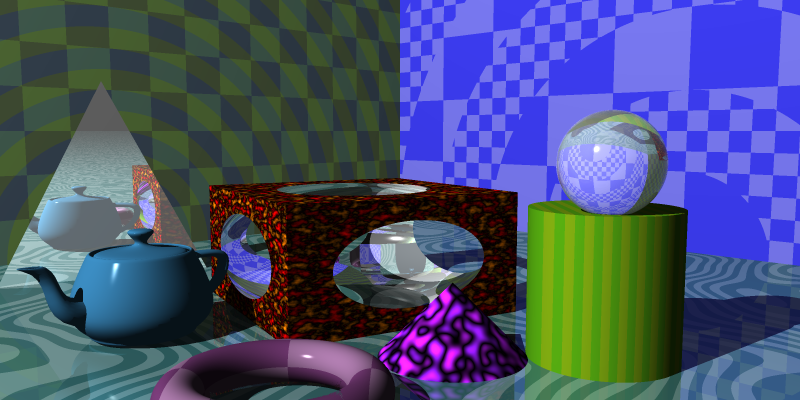
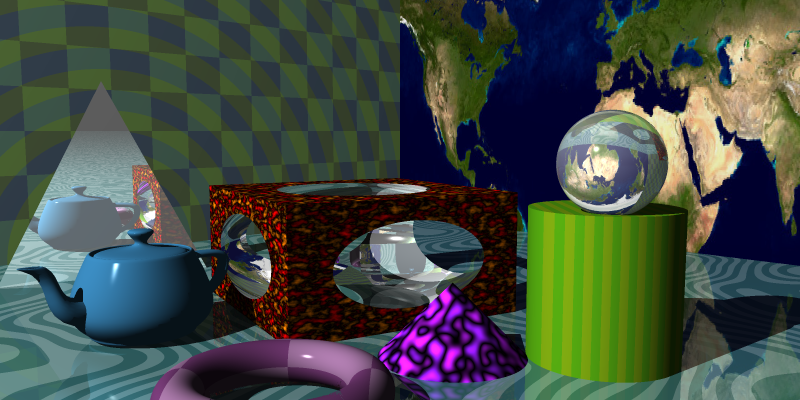
texture wip, sphere and plane done

diff --git a/src/raytracer/material/pattern.rs b/src/raytracer/material/pattern.rs
@@ -1,6 +1,7 @@
 use crate::color::Color;
 use crate::matrix::Matrix;
 use crate::raytracer::material::noise;
+use crate::raytracer::material::texture::Texture;
 use crate::tuple::Tuple;
 
 /// Represents the type of pattern to be applied to a surface in a ray tracing context.
@@ -31,7 +32,8 @@ pub enum PatternType {
     Checker(Box<Pattern>, Box<Pattern>),
     Blend(Box<Pattern>, Box<Pattern>, f64),
     Perturbed(Box<Pattern>, f64, usize, f64),
-    Noise(Box<Pattern>, Box<Pattern>, f64, usize, f64)
+    Noise(Box<Pattern>, Box<Pattern>, f64, usize, f64),
+    Texture(Texture)
 }
 
 /// Represents a pattern with a specific type and transformation.
@@ -116,6 +118,13 @@ impl Pattern {
         }
     }
 
+    pub fn texture(file_name: &str, transform: Matrix) -> Pattern {
+        Pattern {
+            pattern_type: PatternType::Texture(Texture::new(file_name)),
+            transform,
+        }
+    }
+
     /// Calculates the color of the pattern at a given point on an object.
     ///
     /// This method computes the color of the pattern at a specific point on an object, taking into
@@ -133,7 +142,7 @@ impl Pattern {
     /// # Returns
     ///
     /// Returns a `Color` representing the color of the pattern at the given point on the object.
-    pub fn pattern_at(&self, object_point: &Tuple) -> Color {
+    pub fn pattern_at(&self, object_point: &Tuple, shape: usize) -> Color {
         let pattern_point = self.transform.inverse().multiply_tuple(object_point);
         match &self.pattern_type {
             PatternType::Test => {
@@ -144,35 +153,35 @@ impl Pattern {
             },
             PatternType::Stripe(a, b) => {
                 if (pattern_point.x.floor() as i32) % 2 == 0 {
-                    a.pattern_at(&pattern_point)
+                    a.pattern_at(&pattern_point, shape)
                 } else {
-                    b.pattern_at(&pattern_point)
+                    b.pattern_at(&pattern_point, shape)
                 }
             },
             PatternType::Gradient(a, b) => {
-                let a = a.pattern_at(&pattern_point);
-                let b = b.pattern_at(&pattern_point);
+                let a = a.pattern_at(&pattern_point, shape);
+                let b = b.pattern_at(&pattern_point, shape);
                 let distance = b.subtract(&a);
                 let fraction = pattern_point.x - pattern_point.x.floor();
                 a.add(&distance.multiply(fraction))
             },
             PatternType::Ring(a, b) => {
                 if (pattern_point.x.powi(2) + pattern_point.z.powi(2)).sqrt().floor() as i32 % 2 == 0 {
-                    a.pattern_at(&pattern_point)
+                    a.pattern_at(&pattern_point, shape)
                 } else {
-                    b.pattern_at(&pattern_point)
+                    b.pattern_at(&pattern_point, shape)
                 }
             },
             PatternType::Checker(a, b) => {
                 if (pattern_point.x.floor() + pattern_point.y.floor() + pattern_point.z.floor()) as i32 % 2 == 0 {
-                    a.pattern_at(&pattern_point)
+                    a.pattern_at(&pattern_point, shape)
                 } else {
-                    b.pattern_at(&pattern_point)
+                    b.pattern_at(&pattern_point, shape)
                 }
             },
             PatternType::Blend(a, b, scale) => {
-                let a = a.pattern_at(&pattern_point);
-                let b = b.pattern_at(&pattern_point);
+                let a = a.pattern_at(&pattern_point, shape);
+                let b = b.pattern_at(&pattern_point, shape);
                 a.multiply(1.0-scale).add(&b.multiply(*scale))
             },
             PatternType::Perturbed(a, scale, octaves, persistence) => {
@@ -186,16 +195,21 @@ impl Pattern {
                 let new_y = pattern_point.y + noise_y;
                 let new_z = pattern_point.z + noise_z;
                 let new_point = Tuple::new(new_x, new_y, new_z, pattern_point.w);
-                a.pattern_at(&new_point)
+                a.pattern_at(&new_point, shape)
             },
             PatternType::Noise(a, b, scale, octaves, persistence) => {
                 let noise = noise::octave_perlin(pattern_point.x, pattern_point.y, pattern_point.z, *octaves, *persistence);
                 let noise = noise * scale;
                 if noise <= 0.0 {
-                    a.pattern_at(&pattern_point).multiply(-noise)
+                    a.pattern_at(&pattern_point, shape).multiply(-noise)
                 } else {
-                    b.pattern_at(&pattern_point).multiply(noise)
+                    b.pattern_at(&pattern_point, shape).multiply(noise)
                 }
+            },
+            PatternType::Texture(texture) => {
+                let object = crate::raytracer::object::db::get_object(shape);
+                let (u,v) = object.uv_mapping(&pattern_point);
+                texture.sample_texture(u, v)
             }
         }
     }
@@ -220,9 +234,9 @@ mod tests {
         let p = Pattern::stripe(Pattern::solid(Color::new(1.0,1.0,1.0), Matrix::identity(4)),
                                 Pattern::solid(Color::new(0.0,0.0,0.0), Matrix::identity(4)),
                                 Matrix::identity(4));
-        assert_eq!(p.pattern_at(&Tuple::point(0.0, 0.0, 0.0)), Color::new(1.0, 1.0, 1.0));
-        assert_eq!(p.pattern_at(&Tuple::point(0.0, 1.0, 0.0)), Color::new(1.0, 1.0, 1.0));
-        assert_eq!(p.pattern_at(&Tuple::point(0.0, 2.0, 0.0)), Color::new(1.0, 1.0, 1.0));
+        assert_eq!(p.pattern_at(&Tuple::point(0.0, 0.0, 0.0), 0), Color::new(1.0, 1.0, 1.0));
+        assert_eq!(p.pattern_at(&Tuple::point(0.0, 1.0, 0.0), 0), Color::new(1.0, 1.0, 1.0));
+        assert_eq!(p.pattern_at(&Tuple::point(0.0, 2.0, 0.0), 0), Color::new(1.0, 1.0, 1.0));
     }
 
     #[test]
@@ -230,9 +244,9 @@ mod tests {
         let p = Pattern::stripe(Pattern::solid(Color::new(1.0,1.0,1.0), Matrix::identity(4)),
                                 Pattern::solid(Color::new(0.0,0.0,0.0), Matrix::identity(4)),
                                 Matrix::identity(4));
-        assert_eq!(p.pattern_at(&Tuple::point(0.0, 0.0, 0.0)), Color::new(1.0, 1.0, 1.0));
-        assert_eq!(p.pattern_at(&Tuple::point(0.0, 0.0, 1.0)), Color::new(1.0, 1.0, 1.0));
-        assert_eq!(p.pattern_at(&Tuple::point(0.0, 0.0, 2.0)), Color::new(1.0, 1.0, 1.0));
+        assert_eq!(p.pattern_at(&Tuple::point(0.0, 0.0, 0.0), 0), Color::new(1.0, 1.0, 1.0));
+        assert_eq!(p.pattern_at(&Tuple::point(0.0, 0.0, 1.0), 0), Color::new(1.0, 1.0, 1.0));
+        assert_eq!(p.pattern_at(&Tuple::point(0.0, 0.0, 2.0), 0), Color::new(1.0, 1.0, 1.0));
     }
 
     #[test]
@@ -240,12 +254,12 @@ mod tests {
         let p = Pattern::stripe(Pattern::solid(Color::new(1.0,1.0,1.0), Matrix::identity(4)),
                                 Pattern::solid(Color::new(0.0,0.0,0.0), Matrix::identity(4)),
                                 Matrix::identity(4));
-        assert_eq!(p.pattern_at(&Tuple::point(0.0, 0.0, 0.0)), Color::new(1.0, 1.0, 1.0));
-        assert_eq!(p.pattern_at(&Tuple::point(0.9, 0.0, 0.0)), Color::new(1.0, 1.0, 1.0));
-        assert_eq!(p.pattern_at(&Tuple::point(1.0, 0.0, 0.0)), Color::new(0.0, 0.0, 0.0));
-        assert_eq!(p.pattern_at(&Tuple::point(-0.1, 0.0, 0.0)), Color::new(0.0, 0.0, 0.0));
-        assert_eq!(p.pattern_at(&Tuple::point(-1.0, 0.0, 0.0)), Color::new(0.0, 0.0, 0.0));
-        assert_eq!(p.pattern_at(&Tuple::point(-1.1, 0.0, 0.0)), Color::new(1.0, 1.0, 1.0));
+        assert_eq!(p.pattern_at(&Tuple::point(0.0, 0.0, 0.0), 0), Color::new(1.0, 1.0, 1.0));
+        assert_eq!(p.pattern_at(&Tuple::point(0.9, 0.0, 0.0), 0), Color::new(1.0, 1.0, 1.0));
+        assert_eq!(p.pattern_at(&Tuple::point(1.0, 0.0, 0.0), 0), Color::new(0.0, 0.0, 0.0));
+        assert_eq!(p.pattern_at(&Tuple::point(-0.1, 0.0, 0.0), 0), Color::new(0.0, 0.0, 0.0));
+        assert_eq!(p.pattern_at(&Tuple::point(-1.0, 0.0, 0.0), 0), Color::new(0.0, 0.0, 0.0));
+        assert_eq!(p.pattern_at(&Tuple::point(-1.1, 0.0, 0.0), 0), Color::new(1.0, 1.0, 1.0));
     }
 
     #[test]
@@ -253,10 +267,10 @@ mod tests {
         let p = Pattern::gradient(Pattern::solid(Color::new(1.0,1.0,1.0), Matrix::identity(4)),
                                   Pattern::solid(Color::new(0.0,0.0,0.0), Matrix::identity(4)),
                                   Matrix::identity(4));
-        assert_eq!(p.pattern_at(&Tuple::point(0.0, 0.0, 0.0)), Color::new(1.0, 1.0, 1.0));
-        assert_eq!(p.pattern_at(&Tuple::point(0.25, 0.0, 0.0)), Color::new(0.75, 0.75, 0.75));
-        assert_eq!(p.pattern_at(&Tuple::point(0.5, 0.0, 0.0)), Color::new(0.5, 0.5, 0.5));
-        assert_eq!(p.pattern_at(&Tuple::point(0.75, 0.0, 0.0)), Color::new(0.25, 0.25, 0.25));
+        assert_eq!(p.pattern_at(&Tuple::point(0.0, 0.0, 0.0), 0), Color::new(1.0, 1.0, 1.0));
+        assert_eq!(p.pattern_at(&Tuple::point(0.25, 0.0, 0.0), 0), Color::new(0.75, 0.75, 0.75));
+        assert_eq!(p.pattern_at(&Tuple::point(0.5, 0.0, 0.0), 0), Color::new(0.5, 0.5, 0.5));
+        assert_eq!(p.pattern_at(&Tuple::point(0.75, 0.0, 0.0), 0), Color::new(0.25, 0.25, 0.25));
     }
 
     #[test]
@@ -264,10 +278,10 @@ mod tests {
         let p = Pattern::ring(Pattern::solid(Color::new(1.0,1.0,1.0), Matrix::identity(4)),
                               Pattern::solid(Color::new(0.0,0.0,0.0), Matrix::identity(4)),
                               Matrix::identity(4));
-        assert_eq!(p.pattern_at(&Tuple::point(0.0, 0.0, 0.0)), Color::new(1.0, 1.0, 1.0));
-        assert_eq!(p.pattern_at(&Tuple::point(1.0, 0.0, 0.0)), Color::new(0.0, 0.0, 0.0));
-        assert_eq!(p.pattern_at(&Tuple::point(0.0, 0.0, 1.0)), Color::new(0.0, 0.0, 0.0));
-        assert_eq!(p.pattern_at(&Tuple::point(0.708, 0.0, 0.708)), Color::new(0.0, 0.0, 0.0));
+        assert_eq!(p.pattern_at(&Tuple::point(0.0, 0.0, 0.0), 0), Color::new(1.0, 1.0, 1.0));
+        assert_eq!(p.pattern_at(&Tuple::point(1.0, 0.0, 0.0), 0), Color::new(0.0, 0.0, 0.0));
+        assert_eq!(p.pattern_at(&Tuple::point(0.0, 0.0, 1.0), 0), Color::new(0.0, 0.0, 0.0));
+        assert_eq!(p.pattern_at(&Tuple::point(0.708, 0.0, 0.708), 0), Color::new(0.0, 0.0, 0.0));
     }
 
     #[test]
@@ -275,9 +289,9 @@ mod tests {
         let p = Pattern::checker(Pattern::solid(Color::new(1.0,1.0,1.0), Matrix::identity(4)),
                                  Pattern::solid(Color::new(0.0,0.0,0.0), Matrix::identity(4)),
                                  Matrix::identity(4));
-        assert_eq!(p.pattern_at(&Tuple::point(0.0, 0.0, 0.0)), Color::new(1.0, 1.0, 1.0));
-        assert_eq!(p.pattern_at(&Tuple::point(0.99, 0.0, 0.0)), Color::new(1.0, 1.0, 1.0));
-        assert_eq!(p.pattern_at(&Tuple::point(1.01, 0.0, 0.0)), Color::new(0.0, 0.0, 0.0));
+        assert_eq!(p.pattern_at(&Tuple::point(0.0, 0.0, 0.0), 0), Color::new(1.0, 1.0, 1.0));
+        assert_eq!(p.pattern_at(&Tuple::point(0.99, 0.0, 0.0), 0), Color::new(1.0, 1.0, 1.0));
+        assert_eq!(p.pattern_at(&Tuple::point(1.01, 0.0, 0.0), 0), Color::new(0.0, 0.0, 0.0));
     }
 
     #[test]
@@ -285,9 +299,9 @@ mod tests {
         let p = Pattern::checker(Pattern::solid(Color::new(1.0,1.0,1.0), Matrix::identity(4)),
                                  Pattern::solid(Color::new(0.0,0.0,0.0), Matrix::identity(4)),
                                  Matrix::identity(4));
-        assert_eq!(p.pattern_at(&Tuple::point(0.0, 0.0, 0.0)), Color::new(1.0, 1.0, 1.0));
-        assert_eq!(p.pattern_at(&Tuple::point(0.0, 0.99, 0.0)), Color::new(1.0, 1.0, 1.0));
-        assert_eq!(p.pattern_at(&Tuple::point(0.0, 1.01, 0.0)), Color::new(0.0, 0.0, 0.0));
+        assert_eq!(p.pattern_at(&Tuple::point(0.0, 0.0, 0.0), 0), Color::new(1.0, 1.0, 1.0));
+        assert_eq!(p.pattern_at(&Tuple::point(0.0, 0.99, 0.0), 0), Color::new(1.0, 1.0, 1.0));
+        assert_eq!(p.pattern_at(&Tuple::point(0.0, 1.01, 0.0), 0), Color::new(0.0, 0.0, 0.0));
     }
 
     #[test]
@@ -295,9 +309,9 @@ mod tests {
         let p = Pattern::checker(Pattern::solid(Color::new(1.0,1.0,1.0), Matrix::identity(4)),
                                  Pattern::solid(Color::new(0.0,0.0,0.0), Matrix::identity(4)),
                                  Matrix::identity(4));
-        assert_eq!(p.pattern_at(&Tuple::point(0.0, 0.0, 0.0)), Color::new(1.0, 1.0, 1.0));
-        assert_eq!(p.pattern_at(&Tuple::point(0.0, 0.0, 0.99)), Color::new(1.0, 1.0, 1.0));
-        assert_eq!(p.pattern_at(&Tuple::point(0.0, 0.0, 1.01)), Color::new(0.0, 0.0, 0.0));
+        assert_eq!(p.pattern_at(&Tuple::point(0.0, 0.0, 0.0), 0), Color::new(1.0, 1.0, 1.0));
+        assert_eq!(p.pattern_at(&Tuple::point(0.0, 0.0, 0.99), 0), Color::new(1.0, 1.0, 1.0));
+        assert_eq!(p.pattern_at(&Tuple::point(0.0, 0.0, 1.01), 0), Color::new(0.0, 0.0, 0.0));
     }
 
     #[test]

diff --git a/src/raytracer/material/texture.rs b/src/raytracer/material/texture.rs
@@ -1,8 +1,10 @@
 
 use image::ImageReader;
-use image::GenericImageView;
 use image::RgbaImage;
+use crate::color::Color;
 
+/// Represents a texture for use in texturing 3D objects.
+#[derive(Clone, Debug, PartialEq)]
 pub struct Texture {
     pub width: u32,
     pub height: u32,
@@ -10,6 +12,7 @@ pub struct Texture {
 }
 
 impl Texture {
+    /// Creates a new `Texture` instance from an image file.
     pub fn new(path: &str) -> Texture {
         let image = ImageReader::open(path).unwrap().decode().unwrap().to_rgba8();
         let (width, height) = image.dimensions();
@@ -41,6 +44,13 @@ impl Texture {
         // Get pixel color
         let pixel = self.image.get_pixel(x, y);
         [pixel[0], pixel[1], pixel[2], pixel[3]]
+    }
+
+    pub fn sample_texture(&self, u: f64, v: f64) -> Color {
+        let color = self.get_color(u, v);
+        Color::new(color[0] as f64 / 255.0,
+                     color[1] as f64 / 255.0,
+                     color[2] as f64 / 255.0)
     }
 }
 

diff --git a/src/tuple.rs b/src/tuple.rs
@@ -86,6 +86,11 @@ impl Tuple {
         (self.x.powi(2) + self.y.powi(2) + self.z.powi(2) + self.w.powi(2)).sqrt()
     }
 
+    /// Calculates the squared length of a point
+    pub fn length_squared(&self) -> f64 {
+        self.x.powi(2) + self.y.powi(2) + self.z.powi(2)
+    }
+
     /// Normalizes the vector, returning a unit vector in the same direction.
     pub fn normalize(&self) -> Tuple {
         let magnitude = self.magnitude();

diff --git a/src/raytracer/material.rs b/src/raytracer/material.rs
@@ -76,7 +76,7 @@ impl Material {
 /// Returns a `Color` representing the color of the pattern at the specified point on the object.
 pub fn pattern_at_object(shape: usize, world_point: &Tuple) -> Color {
     let object_point = world_to_object(shape, world_point);
-    get_object(shape).get_material().pattern.pattern_at(&object_point)
+    get_object(shape).get_material().pattern.pattern_at(&object_point, shape)
 }
 
 #[cfg(test)]

diff --git a/src/raytracer/scene_builder_yaml.rs b/src/raytracer/scene_builder_yaml.rs
@@ -290,6 +290,10 @@ fn create_pattern(pattern: &Yaml) -> Pattern {
                            persistence,
                            transform.clone())
         }
+        "image" => {
+            let file = pattern["file"].as_str().expect("file not found");
+            Pattern::texture(file, transform.clone())
+        }
         _ => Pattern::solid(Color::new(0.0, 0.0, 0.0), transform.clone()),
     }
 }

diff --git a/src/raytracer/object/sphere.rs b/src/raytracer/object/sphere.rs
@@ -134,4 +134,11 @@ impl Object for Sphere {
         self.id == object_id
     }
 
+    fn uv_mapping(&self, point: &Tuple) -> (f64, f64) {
+        let theta = point.z.atan2(point.x);
+        let phi = (point.y / point.length_squared().sqrt()).acos();
+        let u = (theta + std::f64::consts::PI) / (2.0 * std::f64::consts::PI);
+        let v = 1.0 - (phi / std::f64::consts::PI);
+        (u, v)
+    }
 }

diff --git a/src/raytracer/object/plane.rs b/src/raytracer/object/plane.rs
@@ -112,4 +112,13 @@ impl Object for Plane {
         self.id == object_id
     }
 
+    fn uv_mapping(&self, point: &Tuple) -> (f64, f64) {
+        let u = point.x % 1.0;
+        let v = point.z % 1.0;
+
+        let u = if u < 0.0 { 1.0 + u } else { u };
+        let v = if v < 0.0 { 1.0 + v } else { v };
+
+        (u, v)
+    }
 }

diff --git a/src/raytracer/object.rs b/src/raytracer/object.rs
@@ -54,6 +54,9 @@ pub trait Object: Sync + Send {
     fn set_parent_id(&mut self, id: usize);
     fn get_aabb(&self) -> AABB;
     fn includes(&self, object_id: usize) -> bool;
+    fn uv_mapping(&self, _point: &Tuple) -> (f64, f64) {
+        (0.0, 0.0)
+    }
 }
 
 impl PartialEq for dyn Object {
